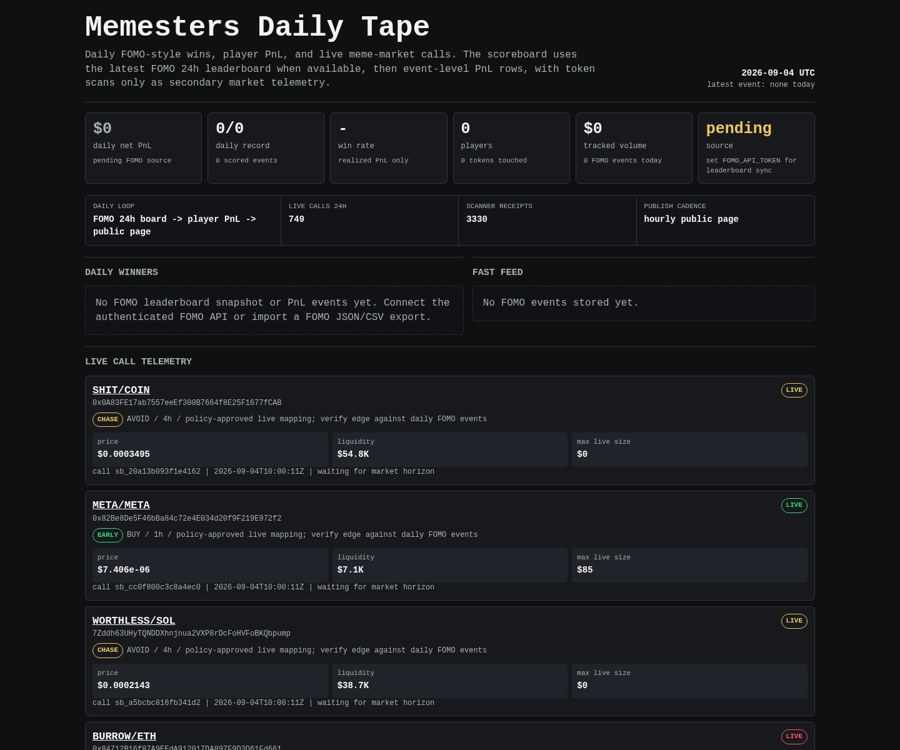
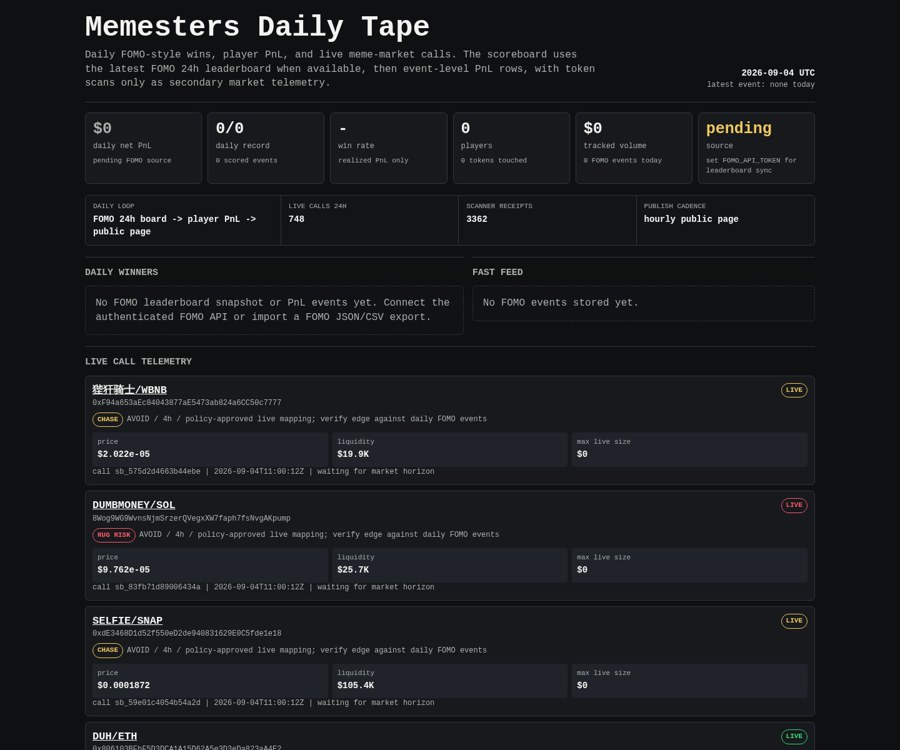
Update Memesters scoreboard

diff --git a/memesters/index.html b/memesters/index.html
@@ -149,8 +149,8 @@
 
     <div class="rail" aria-label="live operating loop">
       <div><span>daily loop</span><b>FOMO 24h board -> player PnL -> public page</b></div>
-      <div><span>live calls 24h</span><b>749</b></div>
-      <div><span>scanner receipts</span><b>3330</b></div>
+      <div><span>live calls 24h</span><b>748</b></div>
+      <div><span>scanner receipts</span><b>3362</b></div>
       <div><span>publish cadence</span><b>hourly public page</b></div>
     </div>
 
@@ -171,8 +171,8 @@
     <article class="receipt">
       <div class="receipt-head">
         <div>
-          <div class="pair"><a href="https://dexscreener.com/robinhood/0x6c4cc81c9f84e6d12f990bc1431e523875efe45a2e0ae91e3ceae6baffd845a5">SHIT/COIN</a></div>
-          <div class="addr">0x0A83FE17ab7557eeEf300B7664f8E25F1677fCAB</div>
+          <div class="pair"><a href="https://dexscreener.com/bsc/0x84bcd4714cc9d7acb8e78d74ea461da26c858b9f">狴犴骑士/WBNB</a></div>
+          <div class="addr">0xF94a653aEc84043877aE5473ab824a6CC50c7777</div>
           <div class="addr policy-line">
             <span class="badge chase">CHASE</span>
             <span>AVOID / 4h / policy-approved live mapping; verify edge against daily FOMO events</span>
@@ -181,19 +181,61 @@
         <span class="badge chase">LIVE</span>
       </div>
       <div class="receipt-grid">
-        <div class="kv"><span>price</span><b>$0.0003495</b></div>
-        <div class="kv"><span>liquidity</span><b>$54.8K</b></div>
+        <div class="kv"><span>price</span><b>$2.022e-05</b></div>
+        <div class="kv"><span>liquidity</span><b>$19.9K</b></div>
         <div class="kv"><span>max live size</span><b>$0</b></div>
       </div>
-      <div class="outcomes">call sb_20a13b093f1e4162 | 2026-09-04T10:00:11Z | waiting for market horizon</div>
+      <div class="outcomes">call sb_575d2d4663b44ebe | 2026-09-04T11:00:12Z | waiting for market horizon</div>
     </article>
     
 
     <article class="receipt">
       <div class="receipt-head">
         <div>
-          <div class="pair"><a href="https://dexscreener.com/robinhood/0xc55a12245b50b4e43db8457c6fe546190d9d99f8b73b9ee19bda2464f1ce1e10">META/META</a></div>
-          <div class="addr">0x82Be8De5F46bBa84c72e4E034d20f9F219E972f2</div>
+          <div class="pair"><a href="https://dexscreener.com/solana/bqgw5nxvv2ej7rbzvq7xyy9nwgu3yhp2qu3ncdgonumy">DUMBMONEY/SOL</a></div>
+          <div class="addr">8Wog9WG9WvnsNjmSrzerQVegxXW7faph7fsNvgAKpump</div>
+          <div class="addr policy-line">
+            <span class="badge rug-risk">RUG RISK</span>
+            <span>AVOID / 4h / policy-approved live mapping; verify edge against daily FOMO events</span>
+          </div>
+        </div>
+        <span class="badge rug-risk">LIVE</span>
+      </div>
+      <div class="receipt-grid">
+        <div class="kv"><span>price</span><b>$9.762e-05</b></div>
+        <div class="kv"><span>liquidity</span><b>$25.7K</b></div>
+        <div class="kv"><span>max live size</span><b>$0</b></div>
+      </div>
+      <div class="outcomes">call sb_83fb71d89006434a | 2026-09-04T11:00:12Z | waiting for market horizon</div>
+    </article>
+    
+
+    <article class="receipt">
+      <div class="receipt-head">
+        <div>
+          <div class="pair"><a href="https://dexscreener.com/robinhood/0x50d9037d2cf12d5f9ef53d19f0a54166a4f18369e7fef9cee2ea2ebaddfa30f4">SELFIE/SNAP</a></div>
+          <div class="addr">0xdE3468D1d52f550eD2de940831629E0C5fde1e18</div>
+          <div class="addr policy-line">
+            <span class="badge chase">CHASE</span>
+            <span>AVOID / 4h / policy-approved live mapping; verify edge against daily FOMO events</span>
+          </div>
+        </div>
+        <span class="badge chase">LIVE</span>
+      </div>
+      <div class="receipt-grid">
+        <div class="kv"><span>price</span><b>$0.0001872</b></div>
+        <div class="kv"><span>liquidity</span><b>$105.4K</b></div>
+        <div class="kv"><span>max live size</span><b>$0</b></div>
+      </div>
+      <div class="outcomes">call sb_59e01c4054b54a2d | 2026-09-04T11:00:12Z | waiting for market horizon</div>
+    </article>
+    
+
+    <article class="receipt">
+      <div class="receipt-head">
+        <div>
+          <div class="pair"><a href="https://dexscreener.com/robinhood/0xa0b33852b12a28c16b3d52c00c07cc9540bba23af195cebf1b6fbeed7ae2acaf">DUH/ETH</a></div>
+          <div class="addr">0x806103BFbF5D3DCA1A15D62A5e3D3eDa823aA4E2</div>
           <div class="addr policy-line">
             <span class="badge early">EARLY</span>
             <span>BUY / 1h / policy-approved live mapping; verify edge against daily FOMO events</span>
@@ -202,179 +244,137 @@
         <span class="badge early">LIVE</span>
       </div>
       <div class="receipt-grid">
-        <div class="kv"><span>price</span><b>$7.406e-06</b></div>
-        <div class="kv"><span>liquidity</span><b>$7.1K</b></div>
-        <div class="kv"><span>max live size</span><b>$85</b></div>
-      </div>
-      <div class="outcomes">call sb_cc0f800c3c8a4ec0 | 2026-09-04T10:00:11Z | waiting for market horizon</div>
-    </article>
-    
-
-    <article class="receipt">
-      <div class="receipt-head">
-        <div>
-          <div class="pair"><a href="https://dexscreener.com/solana/cpe4y7gdcmwsozuhksemnqevmircr69i1jkqaidqsjc">WORTHLESS/SOL</a></div>
-          <div class="addr">7Zddh63UHyTQNDDXhnjnua2VXP8rDcFoHVFoBKQbpump</div>
-          <div class="addr policy-line">
-            <span class="badge chase">CHASE</span>
-            <span>AVOID / 4h / policy-approved live mapping; verify edge against daily FOMO events</span>
-          </div>
-        </div>
-        <span class="badge chase">LIVE</span>
-      </div>
-      <div class="receipt-grid">
-        <div class="kv"><span>price</span><b>$0.0002143</b></div>
-        <div class="kv"><span>liquidity</span><b>$38.7K</b></div>
-        <div class="kv"><span>max live size</span><b>$0</b></div>
-      </div>
-      <div class="outcomes">call sb_a5bcbc816fb341d2 | 2026-09-04T10:00:11Z | waiting for market horizon</div>
-    </article>
-    
-
-    <article class="receipt">
-      <div class="receipt-head">
-        <div>
-          <div class="pair"><a href="https://dexscreener.com/robinhood/0x5bb6c113200d627e753bc046c91d369ed823419cc406663bd02553bf02eef79c">BURROW/ETH</a></div>
-          <div class="addr">0x84712B16f87A9EEdA912017DA897F9D3D61Fd661</div>
-          <div class="addr policy-line">
-            <span class="badge rug-risk">RUG RISK</span>
-            <span>AVOID / 4h / policy-approved live mapping; verify edge against daily FOMO events</span>
-          </div>
-        </div>
-        <span class="badge rug-risk">LIVE</span>
-      </div>
-      <div class="receipt-grid">
-        <div class="kv"><span>price</span><b>$2.737e-05</b></div>
-        <div class="kv"><span>liquidity</span><b>$15.4K</b></div>
-        <div class="kv"><span>max live size</span><b>$0</b></div>
-      </div>
-      <div class="outcomes">call sb_d43580271ec3421a | 2026-09-04T10:00:11Z | waiting for market horizon</div>
-    </article>
-    
-
-    <article class="receipt">
-      <div class="receipt-head">
-        <div>
-          <div class="pair"><a href="https://dexscreener.com/solana/gofhgsxh5ywt7esjp8ujyd9a85ogfsdp5yxpvrbdhbl7">ALONROBIN/SOL</a></div>
-          <div class="addr">4agzpSsAUpBoE9ZVrEpCGyX8EWxNkbDrqrvwbg8cpump</div>
-          <div class="addr policy-line">
-            <span class="badge rug-risk">RUG RISK</span>
-            <span>AVOID / 4h / policy-approved live mapping; verify edge against daily FOMO events</span>
-          </div>
-        </div>
-        <span class="badge rug-risk">LIVE</span>
-      </div>
-      <div class="receipt-grid">
-        <div class="kv"><span>price</span><b>$2.536e-06</b></div>
-        <div class="kv"><span>liquidity</span><b>$2.7K</b></div>
-        <div class="kv"><span>max live size</span><b>$0</b></div>
-      </div>
-      <div class="outcomes">call sb_895d85afd4f147e7 | 2026-09-04T10:00:10Z | waiting for market horizon</div>
-    </article>
-    
-
-    <article class="receipt">
-      <div class="receipt-head">
-        <div>
-          <div class="pair"><a href="https://dexscreener.com/robinhood/0x63c015f85db35586d4f864fe3602633fbfc948acb53a23fec0572664c2909f14">dank elf/ELF</a></div>
-          <div class="addr">0x6e9610541F0953A4315b5B515aaFBeE7C43E7401</div>
-          <div class="addr policy-line">
-            <span class="badge rug-risk">RUG RISK</span>
-            <span>AVOID / 4h / policy-approved live mapping; verify edge against daily FOMO events</span>
-          </div>
-        </div>
-        <span class="badge rug-risk">LIVE</span>
-      </div>
-      <div class="receipt-grid">
-        <div class="kv"><span>price</span><b>$7.827e-06</b></div>
-        <div class="kv"><span>liquidity</span><b>$7.3K</b></div>
-        <div class="kv"><span>max live size</span><b>$0</b></div>
-      </div>
-      <div class="outcomes">call sb_50ac53bc461f4792 | 2026-09-04T10:00:10Z | waiting for market horizon</div>
-    </article>
-    
-
-    <article class="receipt">
-      <div class="receipt-head">
-        <div>
-          <div class="pair"><a href="https://dexscreener.com/solana/4nlt155xkrkwggd4iqqgbxj4w2chmfi8suwfedm42e7w">ANSEMINU/SOL</a></div>
-          <div class="addr">G5vBr81KJZEuFvD8Nf2oB5XRa6Ess7yHJefoUCjJpump</div>
-          <div class="addr policy-line">
-            <span class="badge chase">CHASE</span>
-            <span>AVOID / 4h / policy-approved live mapping; verify edge against daily FOMO events</span>
-          </div>
-        </div>
-        <span class="badge chase">LIVE</span>
-      </div>
-      <div class="receipt-grid">
-        <div class="kv"><span>price</span><b>$0.0001429</b></div>
-        <div class="kv"><span>liquidity</span><b>$31.1K</b></div>
-        <div class="kv"><span>max live size</span><b>$0</b></div>
-      </div>
-      <div class="outcomes">call sb_10e2ab55e5a94059 | 2026-09-04T10:00:10Z | waiting for market horizon</div>
-    </article>
-    
-
-    <article class="receipt">
-      <div class="receipt-head">
-        <div>
-          <div class="pair"><a href="https://dexscreener.com/robinhood/0xb56d8c109836037007d4fd65d65e29f97676f7a47368e359ec38968a5b99aca0">LLAMA/ETH</a></div>
-          <div class="addr">0x3B4246F0d621C85c648B010299AfD773Caf179E8</div>
-          <div class="addr policy-line">
-            <span class="badge early">EARLY</span>
-            <span>BUY / 1h / policy-approved live mapping; verify edge against daily FOMO events</span>
-          </div>
-        </div>
-        <span class="badge early">LIVE</span>
-      </div>
-      <div class="receipt-grid">
-        <div class="kv"><span>price</span><b>$1.006e-05</b></div>
-        <div class="kv"><span>liquidity</span><b>$9.5K</b></div>
+        <div class="kv"><span>price</span><b>$8.961e-06</b></div>
+        <div class="kv"><span>liquidity</span><b>$8.7K</b></div>
         <div class="kv"><span>max live size</span><b>$25</b></div>
       </div>
-      <div class="outcomes">call sb_8621de6c254f4b0f | 2026-09-04T09:45:10Z | waiting for market horizon</div>
+      <div class="outcomes">call sb_62b8720e5e454353 | 2026-09-04T11:00:12Z | waiting for market horizon</div>
     </article>
     
 
     <article class="receipt">
       <div class="receipt-head">
         <div>
-          <div class="pair"><a href="https://dexscreener.com/robinhood/0xd677d20de2da6f86d98a570180ca6ad7650cb5a9e063b1d3fae320ec44ce63b6">ADAM /AMC</a></div>
-          <div class="addr">0x29EA36CBC9FaEd8d472499345A7380E89CA00E01</div>
+          <div class="pair"><a href="https://dexscreener.com/robinhood/0x728df1ffed5bd30b2e8d5128170c659619ad19ddb32187c5e7d9ef3ae7de5bf6">NIGGA/INTC</a></div>
+          <div class="addr">0x938dD92943663d869C40A96900C1EB807A79c8Ca</div>
           <div class="addr policy-line">
-            <span class="badge early">EARLY</span>
-            <span>BUY / 1h / policy-approved live mapping; verify edge against daily FOMO events</span>
+            <span class="badge rug-risk">RUG RISK</span>
+            <span>AVOID / 4h / policy-approved live mapping; verify edge against daily FOMO events</span>
           </div>
         </div>
-        <span class="badge early">LIVE</span>
+        <span class="badge rug-risk">LIVE</span>
       </div>
       <div class="receipt-grid">
-        <div class="kv"><span>price</span><b>$9.244e-06</b></div>
+        <div class="kv"><span>price</span><b>$6.595e-05</b></div>
+        <div class="kv"><span>liquidity</span><b>$5.3K</b></div>
+        <div class="kv"><span>max live size</span><b>$0</b></div>
+      </div>
+      <div class="outcomes">call sb_9077c11bb8d3464b | 2026-09-04T11:00:12Z | waiting for market horizon</div>
+    </article>
+    
+
+    <article class="receipt">
+      <div class="receipt-head">
+        <div>
+          <div class="pair"><a href="https://dexscreener.com/robinhood/0xce553ea7cac6bb37d50db458a74cd3ce38684dd1f86f6b1fe6afcbc48c84314b">MEMESTOCKS/GME</a></div>
+          <div class="addr">0x58905Ada30e4541022b56B85C83Be2e2BcB8f247</div>
+          <div class="addr policy-line">
+            <span class="badge chase">CHASE</span>
+            <span>AVOID / 4h / policy-approved live mapping; verify edge against daily FOMO events</span>
+          </div>
+        </div>
+        <span class="badge chase">LIVE</span>
+      </div>
+      <div class="receipt-grid">
+        <div class="kv"><span>price</span><b>$3.098e-05</b></div>
+        <div class="kv"><span>liquidity</span><b>$8.6K</b></div>
+        <div class="kv"><span>max live size</span><b>$0</b></div>
+      </div>
+      <div class="outcomes">call sb_bb05476f06514537 | 2026-09-04T11:00:12Z | waiting for market horizon</div>
+    </article>
+    
+
+    <article class="receipt">
+      <div class="receipt-head">
+        <div>
+          <div class="pair"><a href="https://dexscreener.com/solana/drwzs9in6zbhxtt3xb4du7qcderphjtl3t658f8bzjn2">Gao/SOL</a></div>
+          <div class="addr">4X61ERVpypdhGyF3TaBmaA9Fu5kKWveygks1Tnj8pump</div>
+          <div class="addr policy-line">
+            <span class="badge chase">CHASE</span>
+            <span>AVOID / 4h / policy-approved live mapping; verify edge against daily FOMO events</span>
+          </div>
+        </div>
+        <span class="badge chase">LIVE</span>
+      </div>
+      <div class="receipt-grid">
+        <div class="kv"><span>price</span><b>$0.000105</b></div>
+        <div class="kv"><span>liquidity</span><b>$26.1K</b></div>
+        <div class="kv"><span>max live size</span><b>$0</b></div>
+      </div>
+      <div class="outcomes">call sb_b702a99d9abd4e69 | 2026-09-04T11:00:11Z | waiting for market horizon</div>
+    </article>
+    
+
+    <article class="receipt">
+      <div class="receipt-head">
+        <div>
+          <div class="pair"><a href="https://dexscreener.com/robinhood/0x034cf072c2cfa057ef262061c98ef8bdd6341e15131a336292f6ae06c6fda5d8">MIAO/ETH</a></div>
+          <div class="addr">0xF139f7f7f9C99cbE9cD96D4fcfa6a8f23390Dafc</div>
+          <div class="addr policy-line">
+            <span class="badge chase">CHASE</span>
+            <span>AVOID / 4h / policy-approved live mapping; verify edge against daily FOMO events</span>
+          </div>
+        </div>
+        <span class="badge chase">LIVE</span>
+      </div>
+      <div class="receipt-grid">
+        <div class="kv"><span>price</span><b>$0.06064</b></div>
+        <div class="kv"><span>liquidity</span><b>$57.7K</b></div>
+        <div class="kv"><span>max live size</span><b>$0</b></div>
+      </div>
+      <div class="outcomes">call sb_64798b0d13e449e4 | 2026-09-04T11:00:11Z | waiting for market horizon</div>
+    </article>
+    
+
+    <article class="receipt">
+      <div class="receipt-head">
+        <div>
+          <div class="pair"><a href="https://dexscreener.com/robinhood/0xd18ce0b1192a612df6426f57fe1254533d65ed8a1d0011e4751602e75d1e9b06">APES/AMC</a></div>
+          <div class="addr">0x6885d7F98DD2696f71672baA1EA910C09232E570</div>
+          <div class="addr policy-line">
+            <span class="badge chase">CHASE</span>
+            <span>AVOID / 4h / policy-approved live mapping; verify edge against daily FOMO events</span>
+          </div>
+        </div>
+        <span class="badge chase">LIVE</span>
+      </div>
+      <div class="receipt-grid">
+        <div class="kv"><span>price</span><b>$2.844e-05</b></div>
         <div class="kv"><span>liquidity</span><b>$8.3K</b></div>
-        <div class="kv"><span>max live size</span><b>$31</b></div>
+        <div class="kv"><span>max live size</span><b>$0</b></div>
       </div>
-      <div class="outcomes">call sb_ca17f38be288491a | 2026-09-04T09:45:10Z | waiting for market horizon</div>
+      <div class="outcomes">call sb_8ad1f655a5c04c11 | 2026-09-04T10:45:11Z | waiting for market horizon</div>
     </article>
     
 
     <article class="receipt">
       <div class="receipt-head">
         <div>
-          <div class="pair"><a href="https://dexscreener.com/robinhood/0x771fca468b6e92dd313d47a303956848aa993aeace9ae8b7ece05b1e932ede19">PCM/ETH</a></div>
-          <div class="addr">0x5328F6fb548F681d42679C42bc1dC115f7b6D459</div>
+          <div class="pair"><a href="https://dexscreener.com/solana/4ku64ivngp7gsdgb5n8h5l9tytqkbpas1eeewngkgczn">BOLD/SOL</a></div>
+          <div class="addr">Hyddgx7vrzHNUuxCBvDDjyjz5EJHj7qwnk8wVWrepump</div>
           <div class="addr policy-line">
-            <span class="badge early">EARLY</span>
-            <span>BUY / 1h / policy-approved live mapping; verify edge against daily FOMO events</span>
+            <span class="badge rug-risk">RUG RISK</span>
+            <span>AVOID / 4h / policy-approved live mapping; verify edge against daily FOMO events</span>
           </div>
         </div>
-        <span class="badge early">LIVE</span>
+        <span class="badge rug-risk">LIVE</span>
       </div>
       <div class="receipt-grid">
-        <div class="kv"><span>price</span><b>$5.782e-05</b></div>
-        <div class="kv"><span>liquidity</span><b>$22.4K</b></div>
-        <div class="kv"><span>max live size</span><b>$40</b></div>
+        <div class="kv"><span>price</span><b>$9.653e-05</b></div>
+        <div class="kv"><span>liquidity</span><b>$24.9K</b></div>
+        <div class="kv"><span>max live size</span><b>$0</b></div>
       </div>
-      <div class="outcomes">call sb_eb1f3ff068a046b6 | 2026-09-04T09:45:10Z | waiting for market horizon</div>
+      <div class="outcomes">call sb_e85050ae268a4814 | 2026-09-04T10:45:10Z | waiting for market horizon</div>
     </article>
     
     </section>
